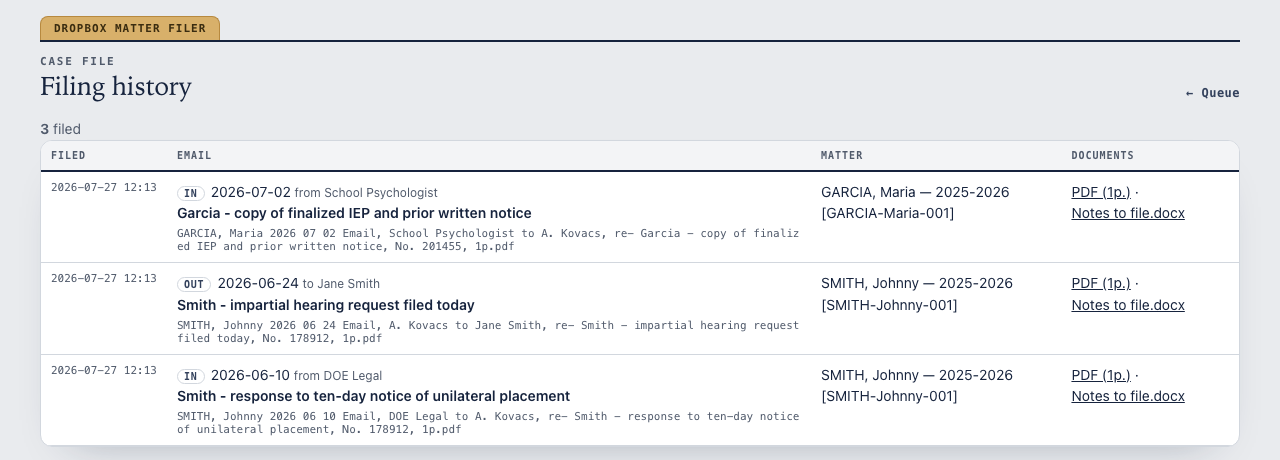
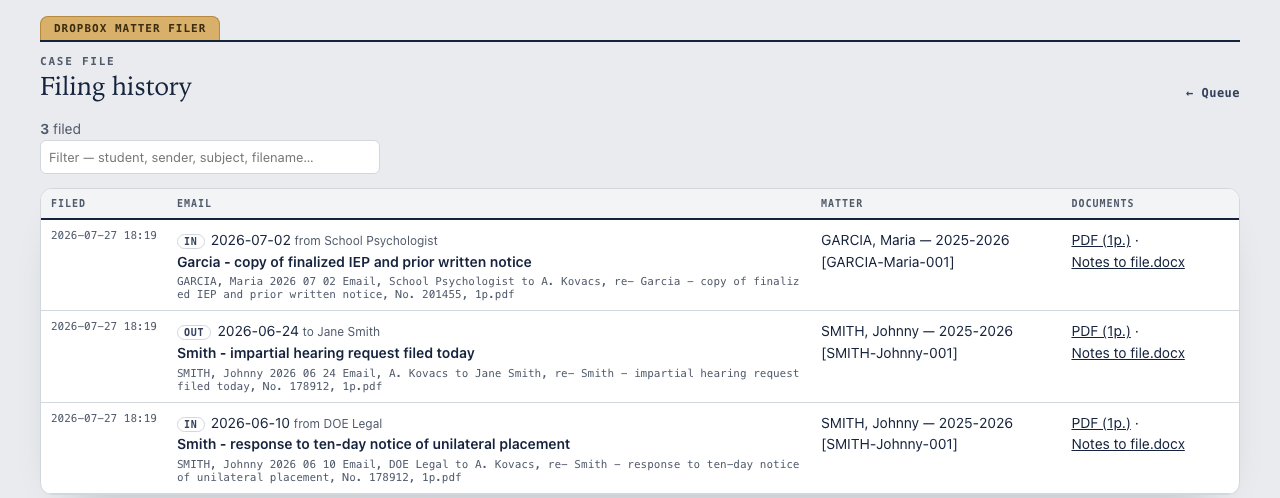
Added history filter

diff --git a/index.html b/index.html
@@ -288,10 +288,10 @@ bring the latest evaluations to discuss IEP goals.</pre>
     <p class="eyebrow" style="margin-bottom:12px">The history screen</p>
     <p class="shotcap">The paper trail keeps itself. Every filed email is on the History
       screen — when it was filed and to which matter — with one-click links to the PDF
-      and the notes entry it produced.</p>
+      and the notes entry it produced. The filter box finds any filing in seconds.</p>
     <figure class="shot">
-      <img src="screenshot-history.png" width="1280" height="460"
-           alt="The filing history: three filed emails with dates, matters, and links to each one's PDF and notes doc.">
+      <img src="screenshot-history.png" width="1280" height="498"
+           alt="The filing history: a filter box and three filed emails with dates, matters, and links to each one's PDF and notes doc.">
     </figure>
   </div>
 </section>
